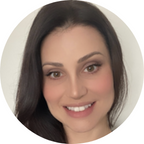
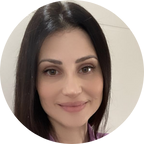
Adicionado link para o validador, foto da Bruna atualizada, smartmockup e print adicionado

diff --git a/index.html b/index.html
@@ -93,7 +93,7 @@
                 </div>
             </div>
             <div class="col-md-6 d-lg-block aos-init aos-animate" data-aos="fade-up" data-aos-delay="100">
-                <img class="img-fluid" src="img/smartmockup-beluga.png" alt="">
+                <img class="img-fluid" src="img/smartmockup-amaweb.png" alt="">
             </div>
         </div>
     </div>
@@ -122,8 +122,7 @@
                 </ul>
             </div>
             <div class="col-sm-5">
-                <img src="img/about-example.png" alt="Printscreen da prancha alfabética do Beluga Talks" class="img-fluid mb-4 border p-1 rounded">
-                <img src="img/about-example.png" alt="Printscreen da prancha numérica do Beluga Talks" class="img-fluid border p-1 rounded">
+                <img src="img/amaweb-validador.png" alt="Printscreen do AMAWeb Validador" class="img-fluid mb-4 border p-1 rounded">
             </div>
         </div>
     </div>
@@ -138,13 +137,13 @@
                     <p class="mt-4 text-black-50">As ferramentas do projeto estão em desenvolvimento, mas já é possível utilizar a versão de testes do avaliador automático de acessibilidade.</p>
                 </div>
                 <div class="col-sm-4">
-                    <a href="" class="btn btn-dark col-12 mt-4">Acessar o AMAWeb Avaliador</a>
+                    <a href="https://ases.unifesp.br/avaliador/" class="btn btn-dark col-12 mt-4">Acessar o AMAWeb Avaliador</a>
                 </div>
             </div>
         </div>
     </div>
     
-    <div class="py-5" id="team">
+    <div class="pb-5" id="team">
         <div class="container">
             <div class="row mt-5 pt-5">
                 <h2 class="col h1 font-weight-bold text-center">Equipe</h2>
@@ -162,7 +161,7 @@
                     <img class="mr-3 border" src="img/team-member-Bruna.png" alt="">
                     <div class="media-body">
                         <h4 class="h6 text-uppercase font-weight-bold mt-3 mb-2"><a class="text-dark" href="http://lattes.cnpq.br/9561380141568454">Bruna Poletto Salton</a></h4>
-                    <small class="d-block">Bolsista</small>
+                    <small class="d-block">Vice-coordenadora</small>
                     <small class="d-block">CTA - IFRS</small>
                     </div>
                 </li>
@@ -171,7 +170,7 @@
                     <img class="mr-3 border" src="img/team-member-Felipe.png" alt="">
                     <div class="media-body">
                         <h4 class="h6 text-uppercase font-weight-bold mt-3 mb-2"><a class="text-dark" href="http://lattes.cnpq.br/3482578273143669">Felipe Dias da Silveira</a></h4>
-                    <small class="d-block">Bolsista</small>
+                    <small class="d-block">Desenvolvedor</small>
                     <small class="d-block">UNIFESP</small>
                     </div>
                 </li>
@@ -179,7 +178,7 @@
                     <img class="mr-3 border" src="img/team-member-Lael.png" alt="">
                     <div class="media-body">
                         <h4 class="h6 text-uppercase font-weight-bold mt-3 mb-2"><a class="text-dark" href="http://lattes.cnpq.br/4772239532005681">Lael Nervis</a></h4>
-                    <small class="d-block">Bolsista</small>
+                    <small class="d-block">Desenvolvedor</small>
                     <small class="d-block">CTA - IFRS</small>
                     </div>
                 </li>
@@ -188,7 +187,7 @@
                     <img class="mr-3 border" src="img/team-member-Gustavo.png" alt="">
                     <div class="media-body">
                         <h4 class="h6 text-uppercase font-weight-bold mt-3 mb-2"><a class="text-dark" href="http://lattes.cnpq.br/2704793719750603">Gustavo Collaço</a></h4>
-                    <small class="d-block">Bolsista</small>
+                    <small class="d-block">Desenvolvedor</small>
                     <small class="d-block">UNIFESP</small>
                     </div>
                 </li>
@@ -196,7 +195,7 @@
                     <img class="mr-3 border" src="img/team-member-Cristian.png" alt="">
                     <div class="media-body">
                         <h4 class="h6 text-uppercase font-weight-bold mt-3 mb-2"><a class="text-dark" href="http://lattes.cnpq.br/6702103619013812">Cristian Gusberti</a></h4>
-                    <small class="d-block">Bolsista</small>
+                    <small class="d-block">Desenvolvedor</small>
                     <small class="d-block">CTA - IFRS</small>
                     </div>
                 </li>
@@ -205,7 +204,7 @@
                     <img class="mr-3 border" src="img/team-member-Gabriel.png" alt="">
                     <div class="media-body">
                         <h4 class="h6 text-uppercase font-weight-bold mt-2 mb-2"><a class="text-dark" href="http://lattes.cnpq.br/2319650783216533">Gabriel Belchior Vieira Campanile</a></h4>
-                    <small class="d-block">Bolsista</small>
+                    <small class="d-block">Desenvolvedor</small>
                     <small class="d-block">UNIFESP</small>
                     </div>
                 </li>
